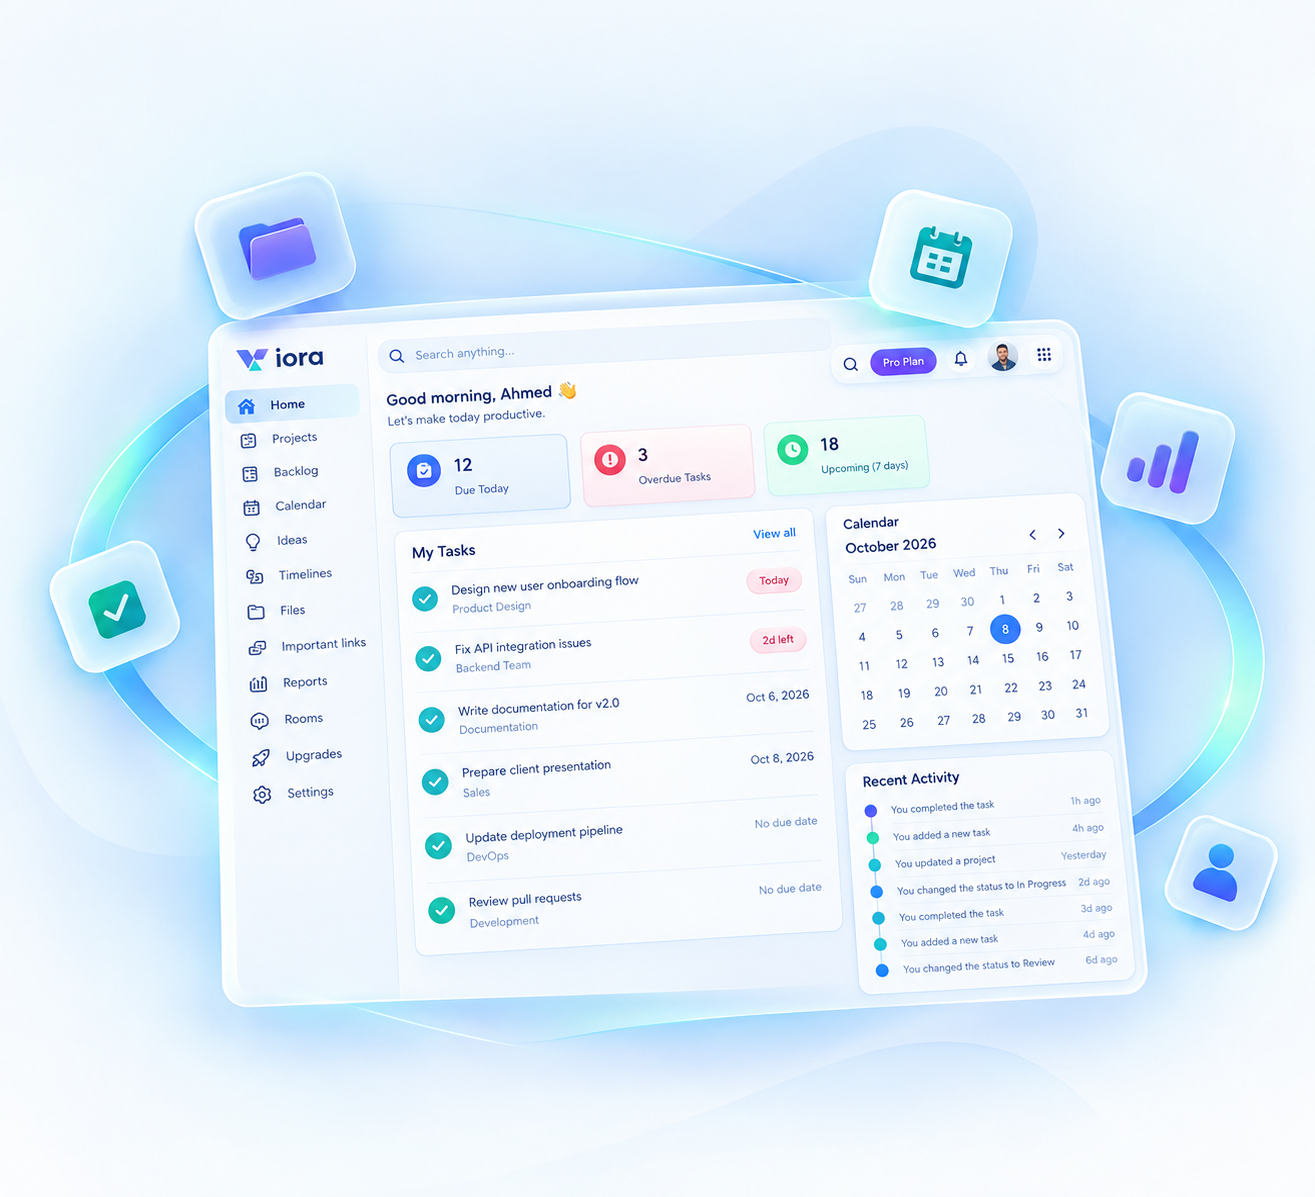
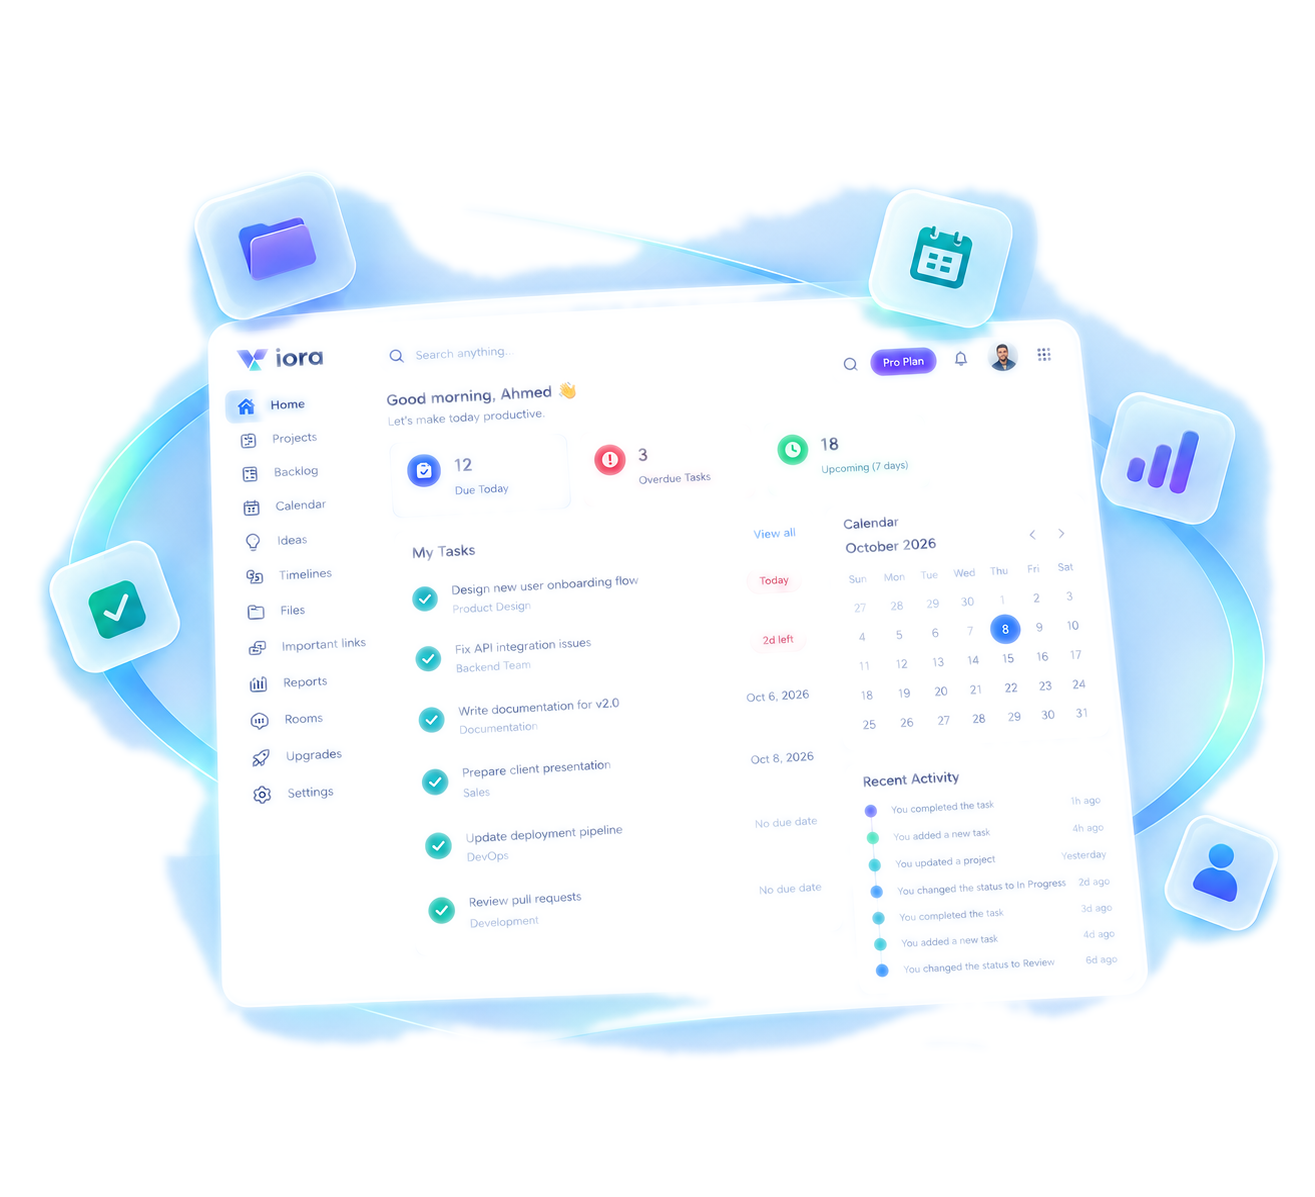
feat: drop the login preview background and let it flow in the page body
The mockups carried their own backdrop, so they needed a bordered frame and a
fixed-height non-scrolling scene to sit in. Cut the backgrounds out and place
the artwork directly under the hero copy, which lets the page grow and scroll
naturally and shows the preview on mobile too (form first, hero below).

diff --git a/app/login/page.tsx b/app/login/page.tsx
@@ -69,17 +69,15 @@ function GithubMark() {
 function DashboardPreview({ theme }: { theme: Theme }) {
   const src = theme === "light" ? "/login-preview-light.png" : "/login-preview-dark.png";
   return (
-    <div className="login-preview relative mt-6 w-[min(100%,640px)]">
-      <div className="login-preview-frame relative overflow-hidden rounded-2xl border border-line">
-        <Image
-          src={src}
-          alt=""
-          width={1315}
-          height={1197}
-          className="h-auto w-full"
-          priority
-        />
-      </div>
+    <div className="login-preview relative mt-8 w-full max-w-[640px]">
+      <Image
+        src={src}
+        alt=""
+        width={1315}
+        height={1197}
+        className="h-auto w-full"
+        priority
+      />
     </div>
   );
 }
@@ -266,18 +264,18 @@ function LoginPageInner() {
     "login-field h-12 ps-11 pe-4 text-sm text-ink placeholder:text-inkFaint";
 
   return (
-    <main className="login-scene relative h-[100dvh] overflow-hidden">
-      <div className="relative mx-auto flex h-full max-w-[1440px] flex-col px-5 sm:px-8 lg:px-12">
+    <main className="login-scene relative min-h-[100dvh]">
+      <div className="relative mx-auto flex min-h-full max-w-[1440px] flex-col px-5 sm:px-8 lg:px-12">
         <header className="flex items-center pt-5">
           <BrandLogo />
         </header>
 
-        <div className="grid min-h-0 flex-1 items-center gap-10 py-4 lg:grid-cols-[minmax(0,1.05fr)_minmax(380px,460px)] lg:gap-16 lg:py-6">
-          <section className="hidden min-w-0 lg:block relative z-10">
+        <div className="grid flex-1 items-center gap-10 py-6 lg:grid-cols-[minmax(0,1.05fr)_minmax(380px,460px)] lg:gap-16 lg:py-6">
+          <section className="relative z-10 order-2 min-w-0 lg:order-1">
             <span className="inline-flex rounded-full bg-[#1D4ED8]/20 px-3 py-1 text-xs font-medium text-ink">
               {t("login.heroBadge")}
             </span>
-            <h1 className="mt-5 max-w-xl text-5xl font-semibold leading-[1.12] tracking-tight text-ink">
+            <h1 className="mt-5 max-w-xl text-4xl font-semibold leading-[1.12] tracking-tight text-ink sm:text-5xl">
               {t("login.heroTitleBefore")}{" "}
               <span className="text-[#3B82F6]">Viora</span> {t("login.heroTitleAfter")}
             </h1>
@@ -285,8 +283,8 @@ function LoginPageInner() {
             <DashboardPreview theme={theme} />
           </section>
 
-          <section className="relative z-30 mx-auto flex h-full max-h-full w-full max-w-[420px] -translate-y-4 items-center sm:-translate-y-6 lg:mx-0 lg:justify-self-end">
-            <div className="login-card thin-scroll max-h-full w-full overflow-y-auto rounded-[28px] p-6 sm:p-8">
+          <section className="relative z-30 order-1 mx-auto flex w-full max-w-[420px] lg:order-2 lg:mx-0 lg:justify-self-end">
+            <div className="login-card w-full rounded-[28px] p-6 sm:p-8">
               <div className="mb-6 flex items-center justify-between gap-2">
                 <div className="inline-flex rounded-xl border border-line bg-paperDark/40 p-0.5" role="group" aria-label={t("login.language")}>
                   <button

diff --git a/app/globals.css b/app/globals.css
@@ -478,6 +478,7 @@ html:not(.dark) .upgrade-stage .bg-black\/25 {
 
 .login-scene {
   background-color: #0a0f1e;
+  overflow-x: clip;
 }
 
 html:not(.dark) .login-scene {
@@ -525,18 +526,8 @@ html:not(.dark) .login-field {
   transition: transform 0.9s cubic-bezier(0.22, 0.61, 0.36, 1);
 }
 
-/* الصورة فيها منظور ثلاثي مرسوم بالفعل — أي ميلان إضافي هنا هيبدّلها */
-.login-preview-frame {
-  box-shadow: 0 40px 80px -28px rgba(0, 0, 0, 0.55);
-  transition: box-shadow 0.9s ease;
-}
-
 .login-preview:hover {
   transform: scale(1.04);
-}
-
-.login-preview:hover .login-preview-frame {
-  box-shadow: 0 20px 40px -24px rgba(0, 0, 0, 0.35);
 }
 
 @media (min-width: 1280px) {
